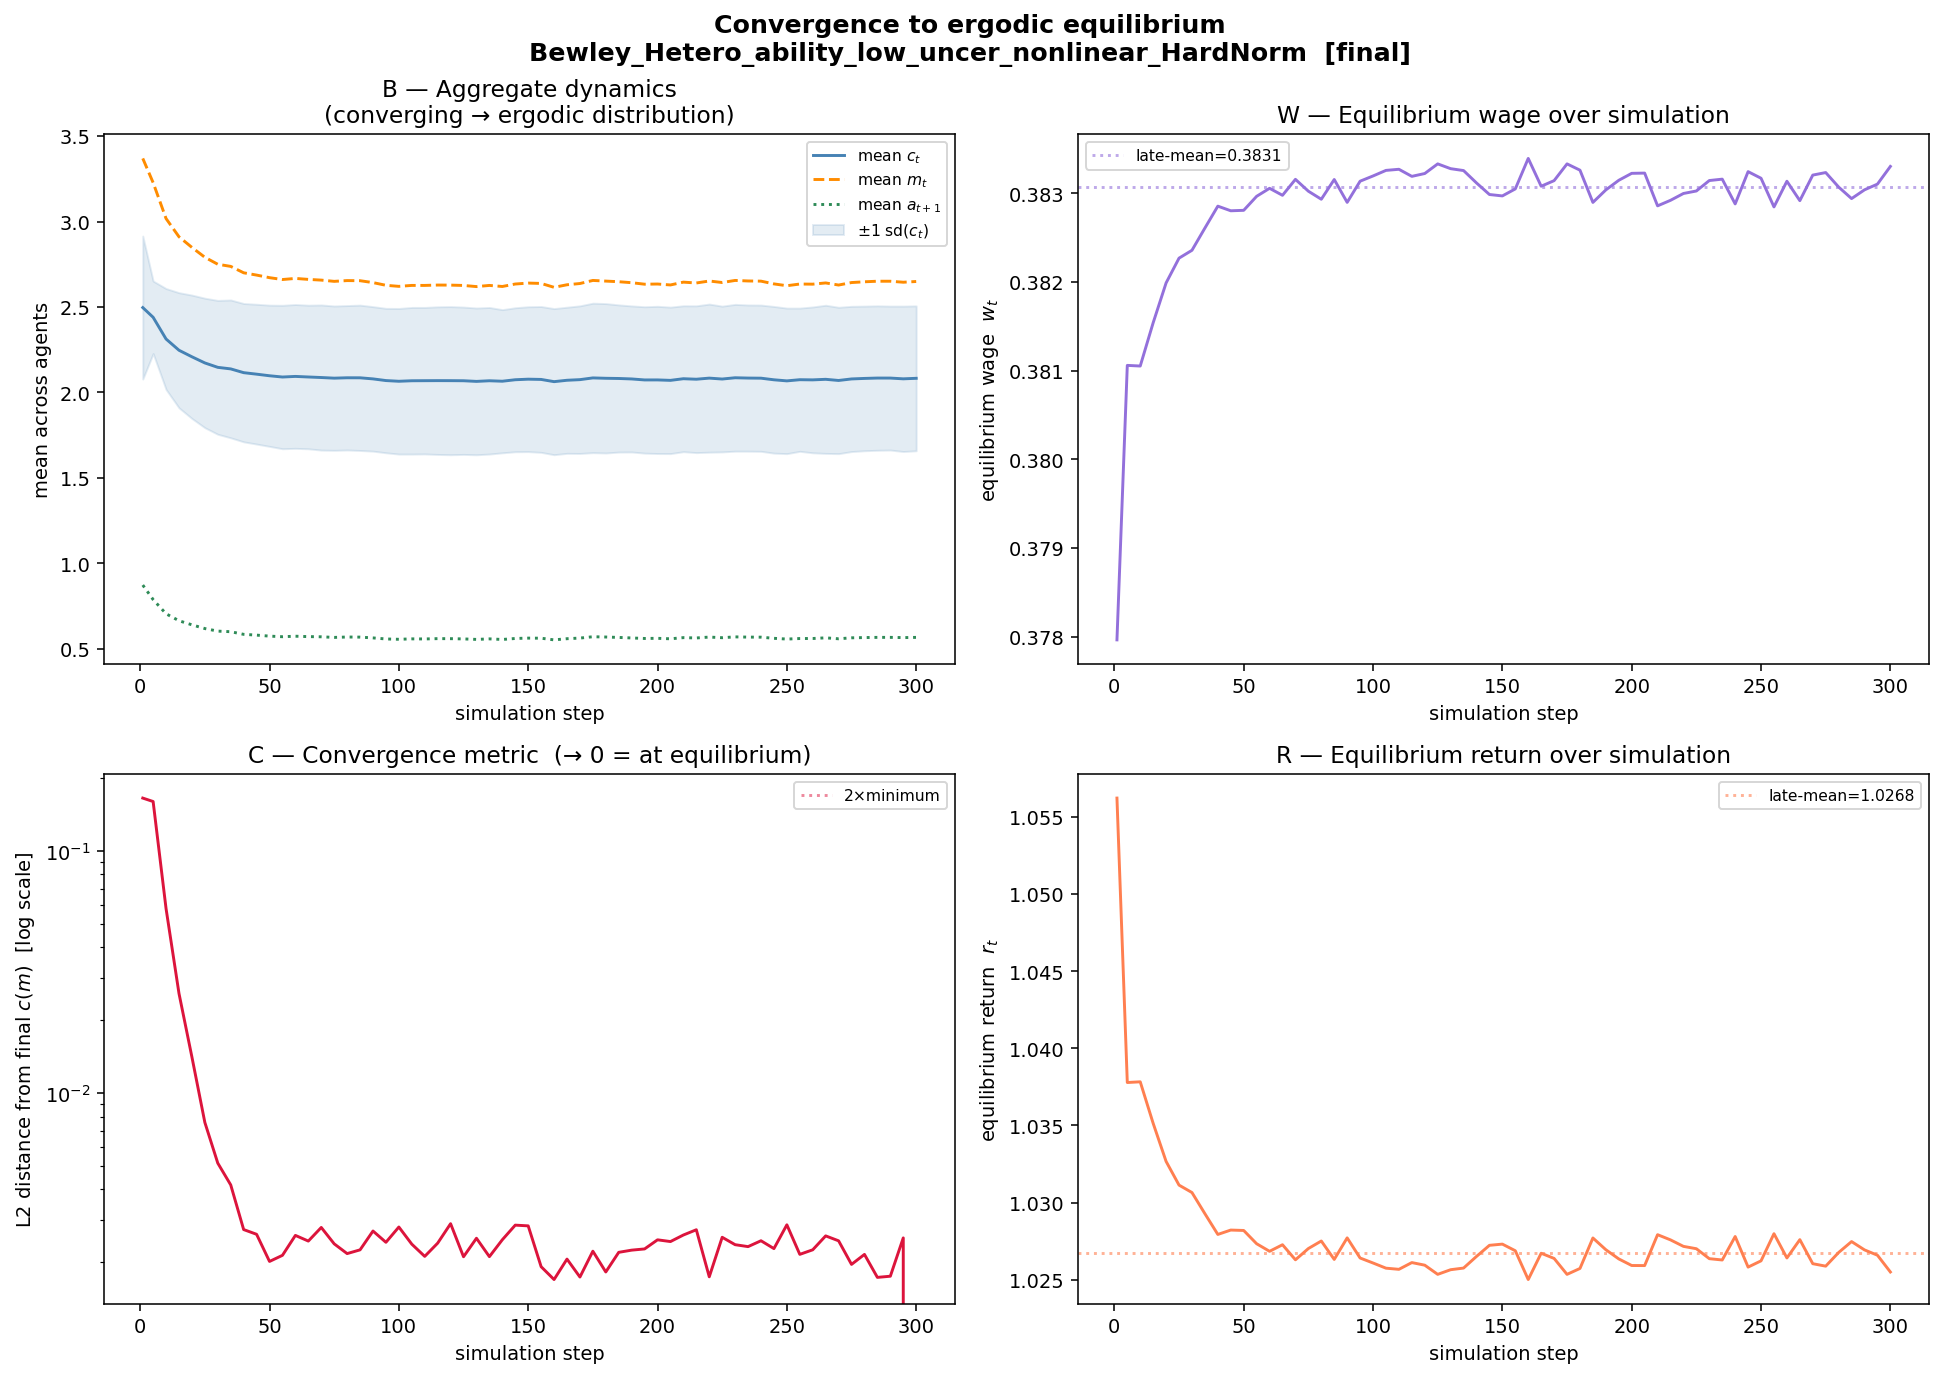
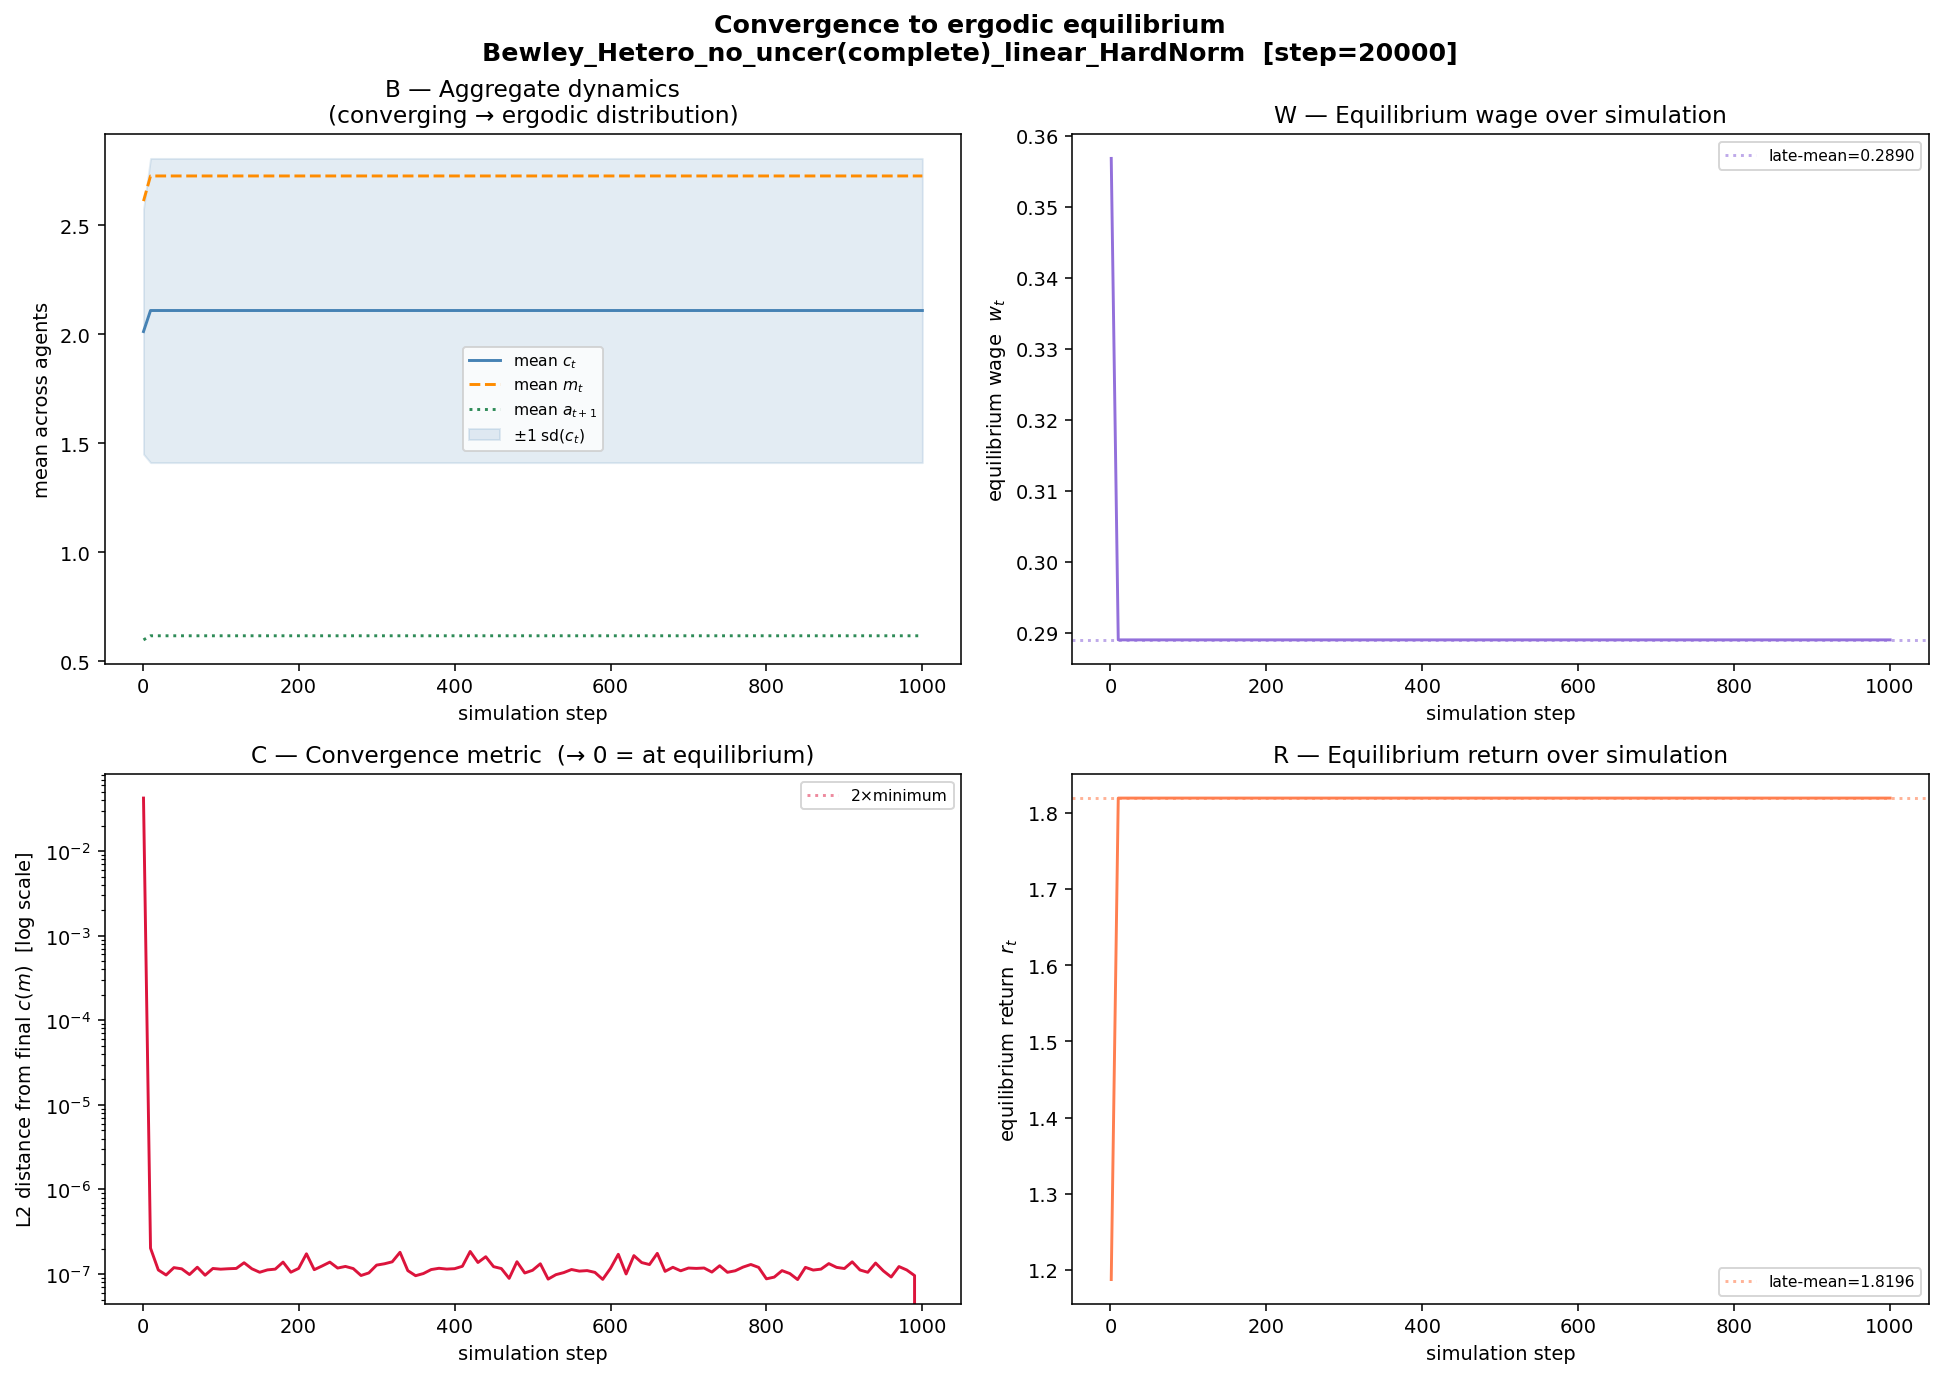
ckpt before changing training strategt

diff --git a/src/monitoring.py b/src/monitoring.py
@@ -90,6 +90,10 @@ class TrainingMonitor:
         metrics['wage_mean'] = temp_state.wage.mean().item()
         metrics['ret_mean'] = temp_state.ret.mean().item()
 
+        # === EFFECTIVE RETURN (after taxes) ===
+        market_metrics = self._compute_effective_return(temp_state)
+        metrics.update(market_metrics)
+
         # === RAW STATE VALUES (for debugging) ===
         metrics['money_raw_mean'] = main_state.moneydisposable.mean().item()
         metrics['ability_raw_mean'] = main_state.ability.mean().item()
@@ -126,6 +130,54 @@ class TrainingMonitor:
         metrics.update(correlation_metrics)
 
         return metrics
+
+    def _compute_effective_return(self, temp_state):
+        """
+        Compute the after-tax marginal return on savings that agents actually face.
+
+        From the budget constraint  m = ibt - T_y(ibt) - T_s(a),  saving 1 extra
+        unit of a_{t+1} today yields next period:
+
+            ∂m_{t+1}/∂a_{t+1}  =  (1−δ+ret) · (1−τ_y) · ibt^{−ε_y}
+                                 −  [1 − (1−τ_s) · a^{−ε_s}]
+                                 ────────────────────────────────────
+                                 gross capital factor  ×  share kept   minus  marginal wealth tax
+
+        At steady state the Euler equation requires  β · F_eff = 1,
+        so  F_eff → 1/β ≈ 1.042.  Tracking this is the right way to judge
+        convergence: raw ret is the BEFORE-tax MPK and can legitimately be >1
+        when progressive taxes have a high marginal rate on capital income.
+        """
+        tau_y  = self.config.tax_params.tax_income
+        eps_y  = self.config.tax_params.income_tax_elasticity
+        tau_s  = self.config.tax_params.tax_saving
+        eps_s  = self.config.tax_params.saving_tax_elasticity
+        delta  = self.config.bewley_model.delta
+        beta   = self.config.bewley_model.beta
+
+        ret     = temp_state.ret                   # (B, A)  gross MPK
+        ibt     = temp_state.income_before_tax     # (B, A)
+        savings = temp_state.savings               # (B, A)  a_{t+1}
+
+        ibt_safe     = torch.clamp(ibt,     min=1e-6)
+        savings_safe = torch.clamp(savings, min=1e-6)
+
+        # Share of one unit of ibt kept after marginal income tax  (= 1 − MRT_y)
+        after_income_tax_share = (1 - tau_y) * ibt_safe.pow(-eps_y)
+
+        # Marginal wealth tax rate  MRT_s  =  1 − (1−τ_s)·a^{−ε_s}
+        mrt_savings = 1.0 - (1 - tau_s) * savings_safe.pow(-eps_s)
+
+        # Effective return factor F:  β·F = 1 at steady state
+        F = (1 - delta + ret) * after_income_tax_share - mrt_savings
+        euler_gap = beta * F - 1.0   # → 0 at convergence
+
+        return {
+            'effective_return_factor': F.mean().item(),
+            'euler_gap': euler_gap.mean().item(),          # target: 0
+            'mrt_income': (1 - after_income_tax_share).mean().item(),
+            'mrt_savings': mrt_savings.mean().item(),
+        }
 
     def _verify_budget_constraint(self, temp_state):
         """
@@ -280,7 +332,11 @@ class TrainingMonitor:
         print(f"    - Mean savings: {metrics['savings_mean']:.3f}")
         print(f"    - Mean ability: {metrics['ability_mean']:.3f}")
         print(f"    - Market wage: {metrics['wage_mean']:.3f}")
-        print(f"    - Market return: {metrics['ret_mean']:.4f}")
+        print(f"    - Market return (gross MPK):    {metrics['ret_mean']:.4f}")
+        print(f"    - Effective return factor F:    {metrics['effective_return_factor']:.4f}  (target 1/β={1/self.config.bewley_model.beta:.4f})")
+        print(f"    - Euler gap β·F−1:              {metrics['euler_gap']:.4f}  (target 0)")
+        print(f"    - Marginal income tax on cap:   {metrics['mrt_income']:.3f}")
+        print(f"    - Marginal wealth tax:          {metrics['mrt_savings']:.3f}")
 
         print(f"  Normalizer Health Check:")
         print(f"    - Money: normalizer_mean={metrics['money_norm_mean']:.3f}, "
@@ -346,7 +402,11 @@ class TrainingMonitor:
 
             # Market variables
             "market/wage": metrics['wage_mean'],
-            "market/return": metrics['ret_mean'],
+            "market/return_gross_mpk": metrics['ret_mean'],
+            "market/effective_return_factor": metrics['effective_return_factor'],
+            "market/euler_gap": metrics['euler_gap'],
+            "market/mrt_income": metrics['mrt_income'],
+            "market/mrt_savings": metrics['mrt_savings'],
 
             # Agent actions
             "actions/mu_mean": metrics['mu_mean'],

diff --git a/monitor_convergence.py b/monitor_convergence.py
@@ -31,6 +31,8 @@ from src.environment import EconomyEnv
 from src.normalizer import HardNormalizer, RunningPerAgentWelford
 from src.models.model import FiLMResNet2In
 from src.utils.configloader import load_configs, dict_to_namespace, compute_derived_params
+from src.calloss import LossCalculator
+from src.calloss import AuxLossMu
 
 # ─────────────────────────────────────────────────────────────────────────────
 # 1.  Checkpoint loading helpers
@@ -145,7 +147,7 @@ def _binned_c_m(m: np.ndarray, c: np.ndarray, n_bins: int = 30):
 
 def run_simulation(env, policy_net, main_state,
                    n_steps: int, snapshot_every: int,
-                   fix_ability: bool):
+                   fix_ability: bool, config=None):
     """
     Run the economy forward for ``n_steps`` periods with a *frozen* policy.
 
@@ -165,7 +167,13 @@ def run_simulation(env, policy_net, main_state,
             }
     """
     policy_net.eval()
-    snapshots = []
+    snapshots    = []
+    total_losses = []
+
+    loss_calc = (
+        LossCalculator(config, device=str(next(policy_net.parameters()).device))
+        if config is not None else None
+    )
 
     print(f"\nRunning {n_steps} simulation steps (snapshot every {snapshot_every})…")
     with torch.no_grad():
@@ -178,6 +186,24 @@ def run_simulation(env, policy_net, main_state,
                 update_normalizer=False,
                 commit_strategy="random",
             )
+
+            if loss_calc is not None:
+                losses = loss_calc.compute_all_losses(
+                    consumption_t=temp_state.consumption,
+                    labor_t=temp_state.labor,
+                    ibt=temp_state.income_before_tax,
+                    savings_ratio_t=temp_state.savings_ratio,
+                    mu_t=temp_state.mu,
+                    wage_t=temp_state.wage,
+                    ret_t=temp_state.ret,
+                    money_disposable_t=temp_state.money_disposable,
+                    ability_t=temp_state.ability,
+                    consumption_A_tp1=oA["consumption"],
+                    consumption_B_tp1=oB["consumption"],
+                    ibt_A_tp1=oA["income_before_tax"],
+                    ibt_B_tp1=oB["income_before_tax"],
+                )
+                total_losses.append(losses["total"].item())
 
             if step % snapshot_every == 0 or step == 1:
                 m_np    = temp_state.money_disposable.detach().cpu().numpy().flatten()
@@ -198,13 +224,18 @@ def run_simulation(env, policy_net, main_state,
                 })
 
                 if step % (snapshot_every * 10) == 0:
+                    loss_str = f"  loss={total_losses[-1]:.4f}" if total_losses else ""
                     print(f"  step {step:5d}  |  mean(m)={m_np.mean():.3f}"
                           f"  mean(c)={c_np.mean():.3f}"
-                          f"  wage={wage_np:.4f}  ret={ret_np:.4f}")
+                          f"  wage={wage_np:.4f}  ret={ret_np:.4f}{loss_str}")
 
             del temp_state, pA, pB, oA, oB
 
     print(f"Simulation complete.  Collected {len(snapshots)} snapshots.")
+    if total_losses:
+        final_loss = float(np.mean(total_losses[-max(1, len(total_losses)//10):]))
+        print(f"  final loss (last 10% avg):  {final_loss:.6f}")
+
     return snapshots
 
 
@@ -460,6 +491,7 @@ def main():
         n_steps=args.n_sim_steps,
         snapshot_every=args.snapshot_every,
         fix_ability=fix_ability,
+        config=config,
     )
 
     # ── 6. Plot ───────────────────────────────────────────────────────────

diff --git a/src/environment.py b/src/environment.py
@@ -219,8 +219,9 @@ class EconomyEnv:
         ibt = wage * labor * ability + (1 - self.config.bewley_model.delta + ret_lagged) * savings  # before-tax income
         # - Apply tax functions
         it, at = self._taxfunc(ibt=ibt, abt=savings)
-        # - Compute disposable money
-        money_disposable = (ibt-it) + (savings-at) 
+        # - Compute disposable money: ibt already contains (1-δ+ret)*savings,
+        #   so subtracting both taxes gives the correct budget constraint.
+        money_disposable = ibt - it - at
 
         return {
             "money_disposable":money_disposable, 
